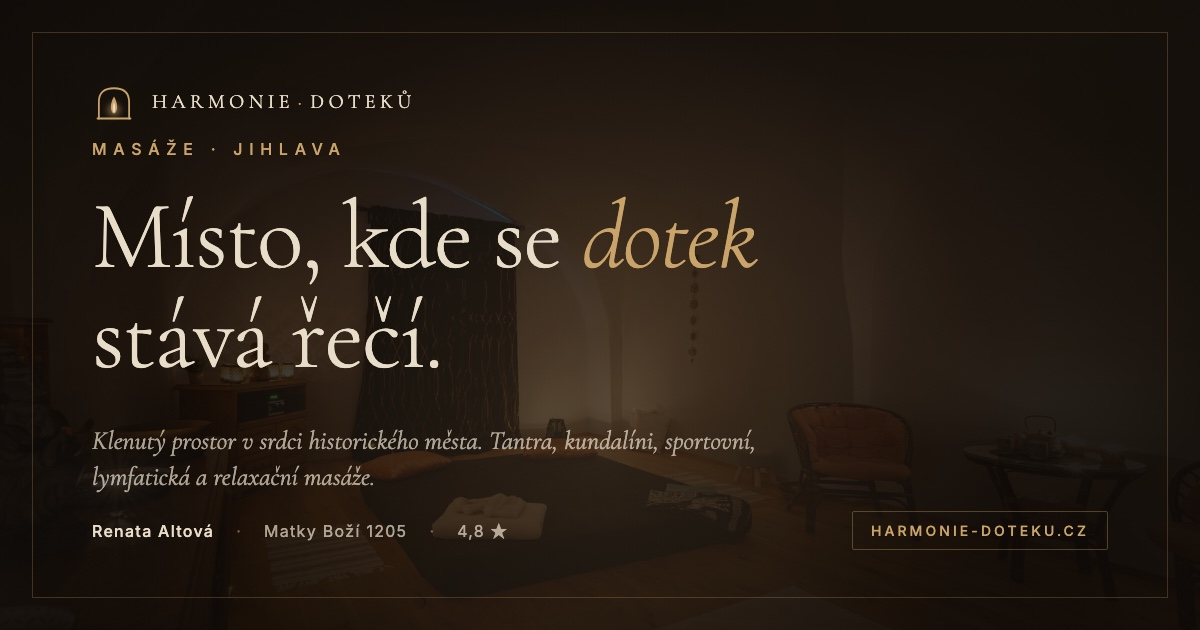
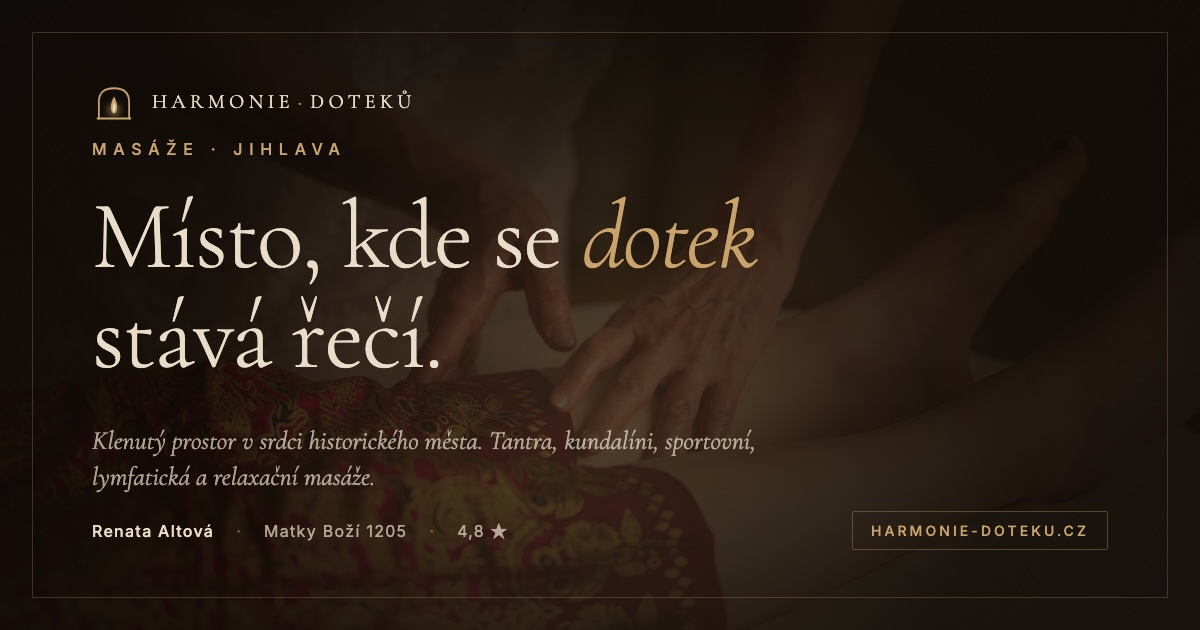
OG image: použít renata-12 (detail rukou) místo klenuté místnosti
Lukáš preferuje fotku Renatiných rukou při masáži klientky se
zlatočerveným přehozem (renata-12.jpg) jako link preview image.

- og.html bg: foto-1.jpg → renata-12.jpg
- center 35% → center 40% (pro tento záběr lepší vertical)
- brightness 0.78 → 0.72 (původní foto je tmavší, dorovnat čitelnost)
- og.jpg re-rendrované přes Chrome headless 1200×630 q92

Více emocionální preview na social/messenger sdílení.

diff --git a/og.html b/og.html
@@ -16,9 +16,9 @@
   }
   .bg {
     position: absolute; inset: 0;
-    background: url('fotky/foto-1.jpg') center 35%/cover no-repeat;
+    background: url('fotky/renata-12.jpg') center 40%/cover no-repeat;
     transform: scale(1.05);
-    filter: brightness(0.78) saturate(1.05);
+    filter: brightness(0.72) saturate(1.05);
   }
   .overlay {
     position: absolute; inset: 0;
